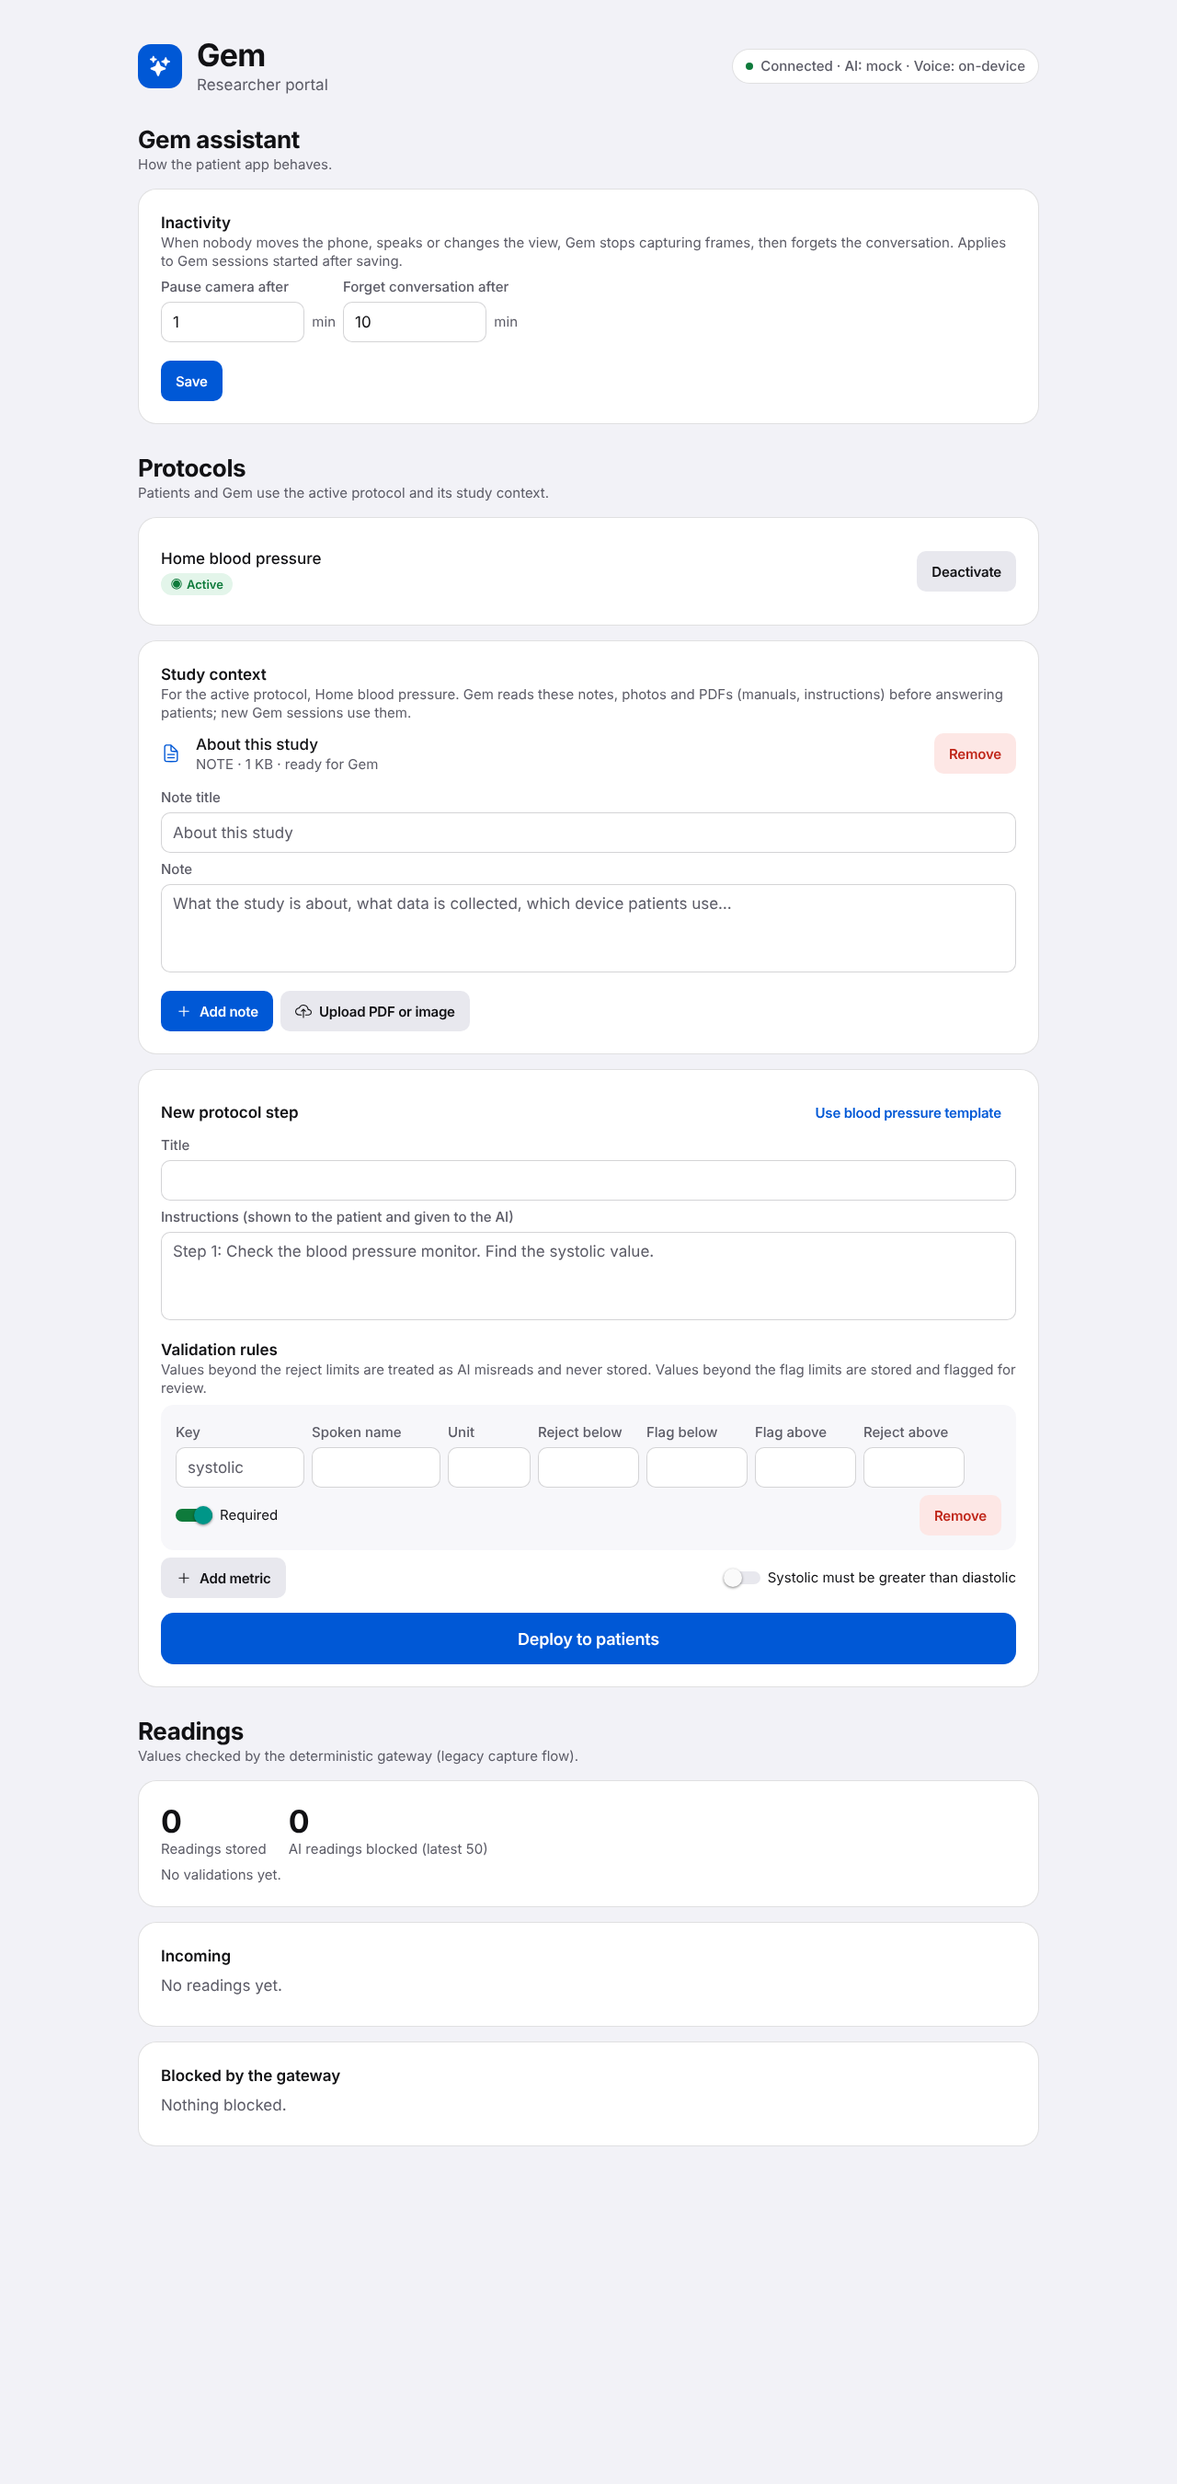
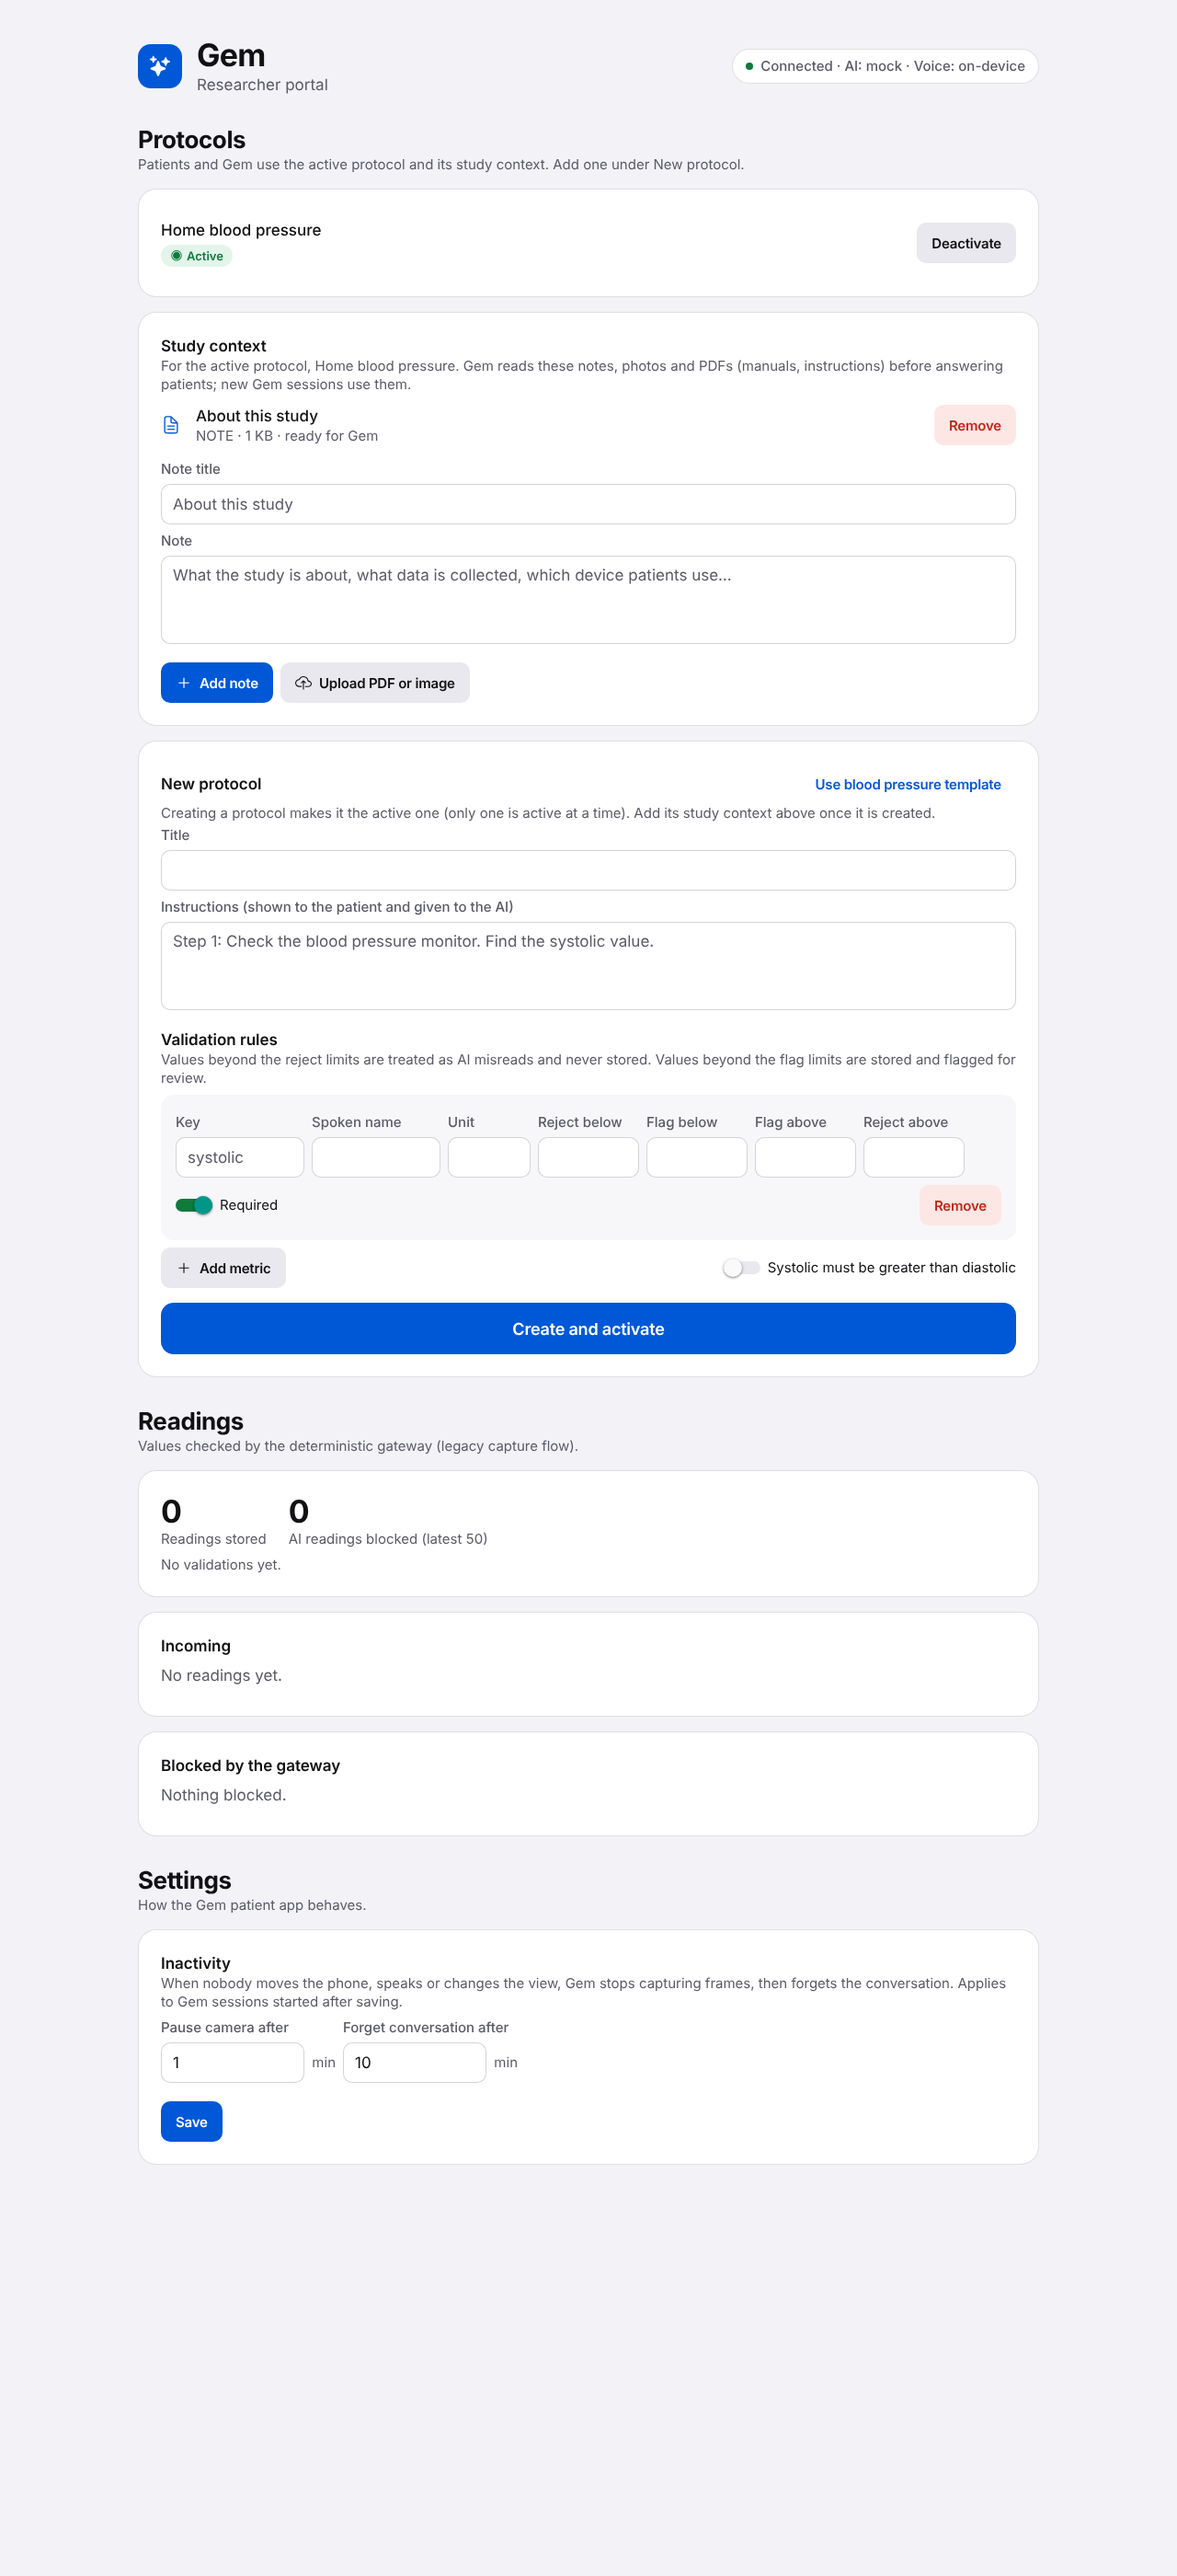
docs: refresh README portal screenshots and wording

diff --git a/README.md b/README.md
@@ -6,8 +6,14 @@ you stop talking it answers with **a photo of what you're looking at with the re
 things marked**, plus a short answer read aloud.
 
 <p>
-<img src="docs/screenshots/gem-answer.png" width="220" alt="Gem answer with a marked photo">
-<img src="docs/screenshots/portal.png" width="520" alt="Researcher portal">
+<picture>
+  <source media="(prefers-color-scheme: dark)" srcset="docs/screenshots/gem-answer-dark.png">
+  <img src="docs/screenshots/gem-answer.png" width="220" alt="Gem answer with a marked photo">
+</picture>
+<picture>
+  <source media="(prefers-color-scheme: dark)" srcset="docs/screenshots/portal-top-dark.png">
+  <img src="docs/screenshots/portal-top.png" width="560" alt="Researcher portal">
+</picture>
 </p>
 
 | Component | Where |
@@ -39,21 +45,24 @@ npx expo start                  # press w → researcher portal; scan QR in Expo
 
 On the phone: allow camera + microphone, point at something, ask a question out loud
 ("What does this screen say?"), and stop talking. Gem shows the marked photo, the answer in
-a text box, and reads it out; **Read it again** replays without another ElevenLabs charge;
-**Dismiss** returns to the camera. While Gem is answering you can talk over it to correct
+a text box, and reads it out; **Read again** replays without another ElevenLabs charge;
+**Dismiss** (or dragging the photo down) returns to the camera. While Gem is answering you can talk over it to correct
 it ("wait, no, the other chair") or ask a follow-up.
 
-Optional: in the portal, deploy a protocol ("Use blood pressure template → Deploy"), then
-use **Gem study context** to add notes, photos and PDF manuals. Gem reads them (and the
-protocol text) for every question in sessions started while that protocol is active.
+Optional: in the portal, create a protocol under **Protocols → New protocol** ("Use blood
+pressure template → Create and activate"), then use **Study context** to add notes, photos
+and PDF manuals. Gem reads them (and the protocol text) for every question in sessions
+started while that protocol is active.
 
 Gem pauses itself: after a minute with no movement, speech or scene change it stops
 sending frames; after ten minutes it ends the session and forgets everything. Pick up the
-phone or speak to wake it.
+phone or speak to wake it. Researchers can change both times under **Settings** at the
+bottom of the portal. The app and the portal follow the system's light or dark mode.
 
 No keys? Leave them empty (or `GEM_MOCK_AI=1`): Gem gives a fixed test answer with a box in
 the middle and the phone uses its built-in voice. The live microphone works in Expo Go on
-a phone, not in the web preview (`http://localhost:8081/?patient`), which offers typing.
+a phone, not in the web preview (`http://localhost:8081/?patient`), which shows the camera
+screen only.
 
 No shared LAN? See HUMAN_TESTS §0 (VPN or tunnels).
 

diff --git a/docs/UI_CONTRACT.md b/docs/UI_CONTRACT.md
@@ -138,4 +138,4 @@ exactly what to reconnect. Then run the HUMAN_TESTS "UI smoke" section on a phon
 Screenshots (web preview with a fake camera): `screenshots/gem-listening.png` (web shows the
 mic error card), `screenshots/gem-paused.png`, `screenshots/gem-answer.png`,
 `screenshots/gem-answer-earlier.png`, `screenshots/portal.png`; dark mode:
-`screenshots/gem-answer-dark.png`, `screenshots/portal-dark.png`.
+`screenshots/gem-answer-dark.png`, `screenshots/portal-dark.png`; README crops: `screenshots/portal-top.png`, `screenshots/portal-top-dark.png`.
